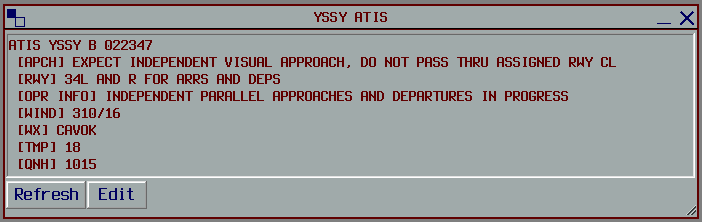
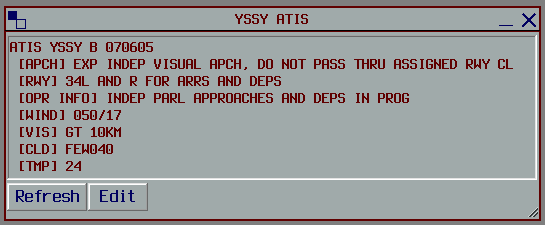
Simplify examples, grammar, ATIS abbreviations

Changed region(s): [[0.0, 0.0, 0.9982, 1.0]]

diff --git a/docs/aerodromes/sydney.md b/docs/aerodromes/sydney.md
@@ -35,7 +35,7 @@ Except when the traffic situation warrants, taxi clearances shall conform to the
 </figure>
 
 !!! tip
-    For aircraft taxiing northbound on B, consider instructing them to hold short of taxiway B8 when 34L is in use for arrivals, in order to separate from aircraft using the B9 rapid exit.
+    For aircraft taxiing northbound on B, consider instructing them to hold short of taxiway B8 when 34L or 16R are in use for arrivals, in order to separate from aircraft using the B7 & B9 rapid exits.
 
 Intersection departures are not permitted for Jet aircraft on runway 34L. `ERSA FAC YSSY`
 ## Airspace
@@ -105,7 +105,7 @@ During times of peak fixed wing traffic, instruct helicopters to hold at their d
     **SY ADC:** "YOE"
 
 !!! tip
-    Some Kopter Routes may conflict with fixed wing approach/departure paths, so use common sense to separate helicopters when required.  For example, during 34 PROPS, it may be more suitable for helicopters to track "via Long Bay to the Boat Ramp" and hold at the Boat Ramp if required, or the **Cape Banks 5 Inbound** rather than taking the **Maroubra 5 Inbound**, due to it's close proximity to the **MARUB SID**.  In any case, if pilots are unfamiliar with local landmarks, simplify your instructions to assist them while maintaining separation.
+    Some Kopter Routes may conflict with fixed wing approach/departure paths, so use common sense to separate helicopters when required.  For example, during 34 PROPS, it may be more suitable for helicopters to track via the **Cape Banks 5 Inbound** rather than taking the **Maroubra 5 Inbound**, due to it's close proximity to the **MARUB SID**.  In any case, if pilots are unfamiliar with local landmarks, simplify your instructions to assist them while maintaining separation.
 
 ## Runway Modes
 Winds must always be considered for Runway modes (Crosswind <20kts, Tailwind <5kts), however the order of preference is as follows:
@@ -128,20 +128,20 @@ Winds must always be considered for Runway modes (Crosswind <20kts, Tailwind <5k
     In general, the SODPROPS, 16D/07A, and 25D/34A modes are most suitable for Noise Abatement. The PROPS modes are most suitable for higher capacity. Since for the most part, neither of these are a factor on VATSIM, it is up to you which runway mode you would like to operate, subject to winds. Consider favouring the higher capacity PROPS modes during busy times, such as events like Milk Run Monday or Panic Stations.
 
 !!! tip
-    Take in to account an aircraft's weight when Runway 16L/34R or 07/25 are in use. The aircraft may operationally require the longer Runway 16R/34L. If in doubt, ask the pilot. The aircraft may simply want a departure from 16R instead of 16L so they have a shorter taxi, for example. If the traffic situation permits, try to be accommodating of these requests.
+    Take in to account an aircraft's weight when runways 16L/34R or 07/25 are in use. Heavier aircraft may operationally require the longer Runway 16R/34L, or pilots may prefer a departure from 16R instead of 16L so they have a shorter taxi. If in doubt, ask the pilot and try to be accommodating of these requests.
 
 When using the SODPROPS mode, pass traffic information to aircraft that are departing and landing at the same time.
 
 !!! example
-    **SY ADC:** "ABC, Traffic is DEF, a 737, on short final for the opposite direction parallel runway. Runway 16L, Cleared for Takeoff"  
-    **ABC:** "Cleared for Takeoff Runway 16L, ABC"  
-    **SY ADC:** "DEF, Traffic is ABC, an A320, departing from the opposite direction parallel runway to the South-East. Runway 34L, Cleared to Land"  
-    **DEF:** "Cleared to Land Runway 34L, DEF"  
+    **SY ADC:** "JST521, traffic is a 737 on a 3nm final for the opposite direction parallel runway, runway 16L, cleared for takeoff"  
+    **JST521:** "Runway 16L, cleared for takeoff, JST521"  
+    **SY ADC:** "VOZ954, traffic is an A320 departing from the opposite direction parallel runway to the southeast, runway 34L, cleared to land"  
+    **VOZ954:** "Runway 34L, cleared to land, VOZ954"  
 ## Parallel Runway Operations
 
 #### Go-arounds / Missed Approaches
-When operating under PROPS, go around headings shall diverge from the extended centreline by at least 30° away from the parallel runway. Aircraft on the ILS may follow the Published Missed Approach in order to meet this requirement.  
-Go Arounds / Missed Approaches shall be coordinated to the SY TCU as per the standard procedure.
+When operating under PROPS, go around headings shall diverge from the extended centreline of the parallel runway by at least 30°. Aircraft cleared the ILS or IVA may follow the published missed approach in order to meet this requirement.  
+Go arounds / missed approaches shall be coordinated with the SY TCU as per the standard procedure.
 
 #### Runway Selection
 Unless operationally required, aircraft shall be assigned the following runways for departure when PROPS are in progress:
@@ -171,35 +171,35 @@ Jet Aircraft **not** planned via **KADOM**, **WOL**, **RIC**, or **ENTRA**, and 
 !!! note
     Heavier aircraft on long-haul flights may not be able to achieve the Climb Gradient required of the Procedural SIDs. In this instance, they shall be assigned the **Radar SID**, as it has a shallower minimum Climb Gradient. If in doubt, ask the pilot.
 
-All other aircraft (Non-Jet aircraft, Aircraft with shallow Climb Gradient, and Aircraft using Runway 25), shall be assigned the **Radar SID**.
+All other aircraft (non-jet aircraft, aircraft requiring a shallow climb gradient, and all aircraft using runway 25) shall be assigned the **Radar SID**.
 
 !!! example
     Non-Jet Aircraft planned via CORDO, assigned runway 16R, shall be given the SYDNEY# departure.
 
 !!! tip
-    A Radar SID (eg, SYDNEY 2 departure) is distinct from a SID with a RADAR transition (eg, RICHMOND 5 departure, RADAR transition) SIDs with a RADAR Transition are still considered Procedural SIDs. A Radar SID can be identified in the DAPs (link) as having a "(RADAR)" at the end of the name.
+    A radar SID (e.g. SYDNEY 2 departure) is distinct from a procedural SID with a RADAR transition (eg, RICHMOND 5 departure, RADAR transition). A Radar SID can be identified in the DAPs (link) as having a "(RADAR)" at the end of the name.
 ## ATIS
 #### Approach Types
 
 | Cloud Base             | Visibility     | Approach                             |
 | -----------------------| -------------- | -------------------------------------|
-| >3000FT                | >5000M         | `EXPECT INDEPENDENT VISUAL APPROACH` |
-| Between 2000FT & 3000FT| >5000M         | `EXPECT INSTRUMENT APPROACH THEN INDEPENDENT VISUAL APPROACH WHEN VISUAL`|
-| Below 2000FT **or**    | <5000M         | `EXPECT INSTRUMENT APPROACH`                |
+| >3000FT                | >5000M         | `EXP INDEP VISUAL APCH` |
+| Between 2000FT & 3000FT| >5000M         | `EXP INST APCH THEN INDEP VISUAL APCH WHEN VISUAL`|
+| Below 2000FT **or**    | <5000M         | `EXP INST APCH`                |
+
+When Independent Visual Approaches are run during PROPS, the APCH field must also include:  
+`DO NOT PASS THRU ASSIGNED RWY CL`
 
 #### Operational Info
 
 When parallel runways are used for departures but inbound traffic levels don't necessitate independent approaches (low traffic levels), the ATIS OPR INFO shall include:  
-`INDEPENDENT PARALLEL DEPARTURES IN PROGRESS`  
+`INDEP PARL DEPS IN PROG`  
 
 When parallel runways are used for departures and the arrival sequence requires independent approaches (high traffic levels), the ATIS OPR INFO shall include:  
-`INDEPENDENT PARALLEL APPROACHES AND DEPARTURES IN PROGRESS`   
+`INDEP PARL APPROACHES AND DEPS IN PROG`   
 
 When SODPROPS are in operation, the ATIS OPR INFO shall include:  
-`SIMULTANEOUS OPPOSITE DIRECTION PARALLEL RUNWAY OPERATIONS IN PROGRESS`  
-
-When Independent Visual Approaches are run during PROPS, the APCH must also include:  
-`DO NOT PASS THRU ASSIGNED RWY CL`
+`SIMUL OPP DIR PARL RWY OPS IN PROG`  
 
 !!! example
     <figure markdown>
@@ -241,17 +241,19 @@ a) VFR Departures
 b) Aircraft using a runway not on the ATIS
 
 !!! example
-    **ABC** -> **SY ACD**: "Sydney Delivery, ABC, Requesting clearance for a Northbound VFR Coastal departure at A035"  
-    **SY ACD** -> **ABC**: "ABC, Sydney Delivery, Standby"  
-    **SY ACD** -> **SY TCU**: "ABC, Requesting clearance for a Northbound VFR Coastal departure at A035"  
-    **SY TCU** -> **SY ACD**: "ABC, Cleared for a Northbound VFR Coastal departure, A035"  
-    **SY ACD** -> **SY TCU**: "Cleared for a Northbound VFR Coastal departure, A035, ABC"  
-    **SY ACD** -> **ABC**: "ABC, Cleared for a Northbound VFR Coastal departure, A035, Squawk 3601"  
-    **ABC** -> **SY ACD**: "Cleared for a Northbound VFR Coastal departure, A035, 3601, ABC"  
+    **TEK:** "Sydney Delivery, TEK, for Shellharbour via Cronulla, A025, request clearance"  
+    **SY ACD:** "TEK, Sydney Delivery, standby"    
+
+    **SY ACD** -> **SY TCU**: "TEK, requesting clearance for Shellharbour via Cronulla, A025"  
+    **SY TCU** -> **SY ACD**: "TEK, cleared to Shellharbour via Cronulla, A025"  
+    **SY ACD** -> **SY TCU**: "Cleared to Shellharbour via Cronulla, A025, TEK"   
+
+    **SY ACD:** "TEK, cleared to Shellharbour via Cronulla, climb A025, squawk 0552, departure frequency 123.0"  
+    **TEK:** "Cleared to Shellharbour via Cronulla, climb A025, squawk 0552, departure frequency 123.0, TEK"  
 
 ## Standard Assignable Departure Headings
 
-Aircraft that have been assigned the **Radar SID** must be assigned a heading on departure. “Next” coordination is not required to the SY TCU controller when the departing aircraft has been assigned the standard assignable level, and has been cleared via the headings listed below:
+Aircraft that have been cleared the **Radar SID** must receive an assigned heading with their line up or takeoff clearance. 'Next' coordination is not required to the SY TCU controller when the departing aircraft has been assigned the standard assignable level and assigned one of the headings listed below:
 
 | Runway | Jet | Non-Jet 
 | ----------------- | -------------- | ---------------- |
@@ -263,7 +265,7 @@ Aircraft that have been assigned the **Radar SID** must be assigned a heading on
 | 34R                | 030, 070          | 350 |
 
 !!! information
-    Where multiple standard assignable headings are available, assign the heading most suitable for the aircraft's direction of flight
+    Where multiple standard assignable headings are available, assign the heading most suitable for the aircraft's direction of flight.
 
 !!! tip
     If strong winds are present at altitude, TWR/DEP should discuss slight changes to these headings (+/- 5 degrees) to compensate for large crosswind components.
